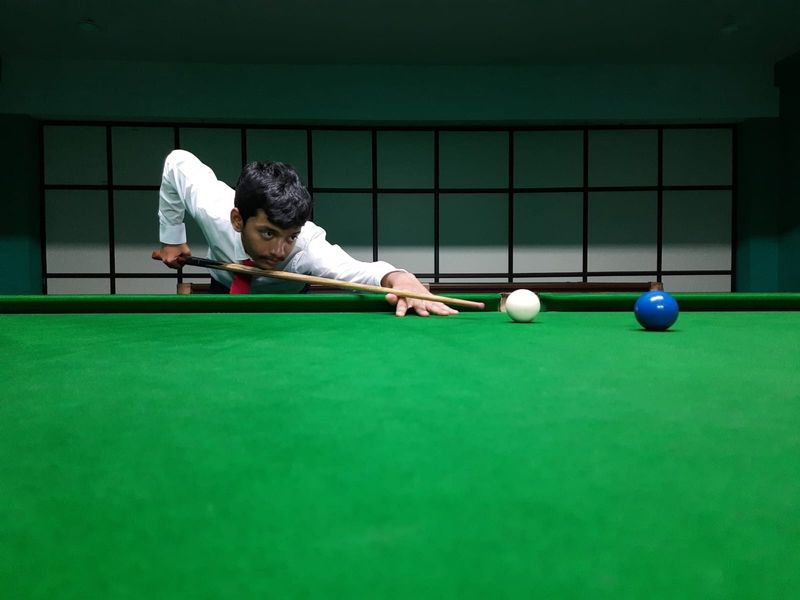
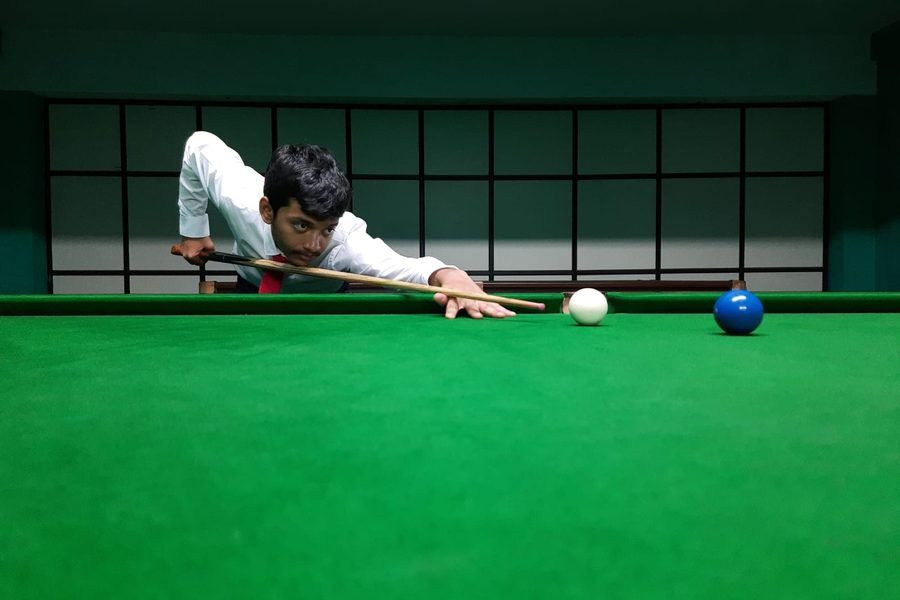
Give the Interests images real estate; chess.com card on the Chess tile
- Two columns instead of four, so each card is roughly twice as wide and the
  photos are actually legible rather than thumbnails.
- All sources pre-cropped to 3:2 at 900px, so a uniform aspect-[3/2] box can use
  object-cover without cutting anything at render time. The climbing shot was
  portrait; its crop is biased upward to keep the cliff face and the climbers.
- Chess uses chess.com's own profile share card — their branding, and the real
  numbers (1605 rapid, top 2%). It is 1.9:1, so rather than crop the Puzzles
  stat off it is letterboxed onto chess.com's own background colour, sampled
  from the card itself. Self-hosted, so the page never depends on their endpoint.
- Cards without a photo use the same 3:2 block, keeping one rhythm.
- About/Builder now says more than 20,000 investors reached.

Changed region(s): [[0.0, 0.15, 1.0, 0.57]]

diff --git a/app/components/Interests.tsx b/app/components/Interests.tsx
@@ -8,6 +8,8 @@ type Interest = {
   description: string
   /** Optional photo. Cards without one keep the emoji at full size. */
   image?: { src: string; w: number; h: number }
+  /** Optional outbound link. The whole card becomes clickable when set. */
+  href?: string
 }
 
 const interests: Interest[] = [
@@ -15,18 +17,20 @@ const interests: Interest[] = [
     icon: '🧗',
     title: 'Rock Climbing',
     description: 'Reading the wall, committing to the move. Problem-solving with consequences.',
-    image: { src: '/img/climbing.jpg', w: 640, h: 853 },
+    image: { src: '/img/climbing.jpg', w: 900, h: 600 },
   },
   {
     icon: '♟',
     title: 'Chess',
     description: 'Thinking several moves ahead and adapting when the board changes.',
+    href: 'https://www.chess.com/member/vedanthkogileru/stats/rapid?time=0',
+    image: { src: '/img/chess.jpg', w: 900, h: 600 },
   },
   {
     icon: '🎱',
     title: 'Snooker',
     description: 'Precision, patience, and playing position for the shot after this one.',
-    image: { src: '/img/snooker.jpg', w: 800, h: 600 },
+    image: { src: '/img/snooker.jpg', w: 900, h: 600 },
   },
   {
     icon: '📈',
@@ -50,7 +54,7 @@ export default function Interests() {
           </p>
         </div>
 
-        <div className="grid grid-cols-2 lg:grid-cols-4 gap-4">
+        <div className="grid sm:grid-cols-2 gap-6">
           {interests.map((interest, i) => (
             <motion.div
               key={interest.title}
@@ -59,7 +63,7 @@ export default function Interests() {
               viewport={{ once: true, margin: '-50px' }}
               transition={{ duration: 0.5, delay: i * 0.1 }}
               whileHover={{ y: -6 }}
-              className="bg-slate-50 rounded-2xl p-6 border border-slate-200 hover:border-indigo-200 hover:shadow-sm transition-colors"
+              className="relative bg-slate-50 rounded-2xl p-6 border border-slate-200 hover:border-indigo-200 hover:shadow-sm transition-colors"
             >
               {interest.image ? (
                 <img
@@ -68,17 +72,40 @@ export default function Interests() {
                   width={interest.image.w}
                   height={interest.image.h}
                   loading="lazy"
-                  className="w-full h-32 object-cover rounded-xl mb-4"
+                  className="w-full aspect-[3/2] object-cover rounded-xl mb-5 bg-white border border-slate-100"
                 />
               ) : (
-                // Same 8rem block as a photo, so a mixed row of photo and
+                // Same 3:2 block as a photo, so a mixed row of photo and
                 // emoji cards keeps one rhythm instead of leaving dead space.
-                <span className="w-full h-32 mb-4 rounded-xl bg-white border border-slate-100 flex items-center justify-center text-4xl">
+                <span className="w-full aspect-[3/2] mb-5 rounded-xl bg-white border border-slate-100 flex items-center justify-center text-6xl">
                   {interest.icon}
                 </span>
               )}
-              <h3 className="font-semibold text-slate-900 mb-2">{interest.title}</h3>
+              <h3 className="font-semibold text-slate-900 text-lg mb-2">{interest.title}</h3>
               <p className="text-slate-500 text-sm leading-relaxed">{interest.description}</p>
+              {interest.href && (
+                <>
+                  <svg
+                    className="absolute top-5 right-5 w-4 h-4 text-slate-300"
+                    fill="none"
+                    stroke="currentColor"
+                    viewBox="0 0 24 24"
+                    aria-hidden="true"
+                  >
+                    <path strokeLinecap="round" strokeLinejoin="round" strokeWidth={2} d="M14 5h5m0 0v5m0-5L10 14M9 5H6a2 2 0 00-2 2v11a2 2 0 002 2h11a2 2 0 002-2v-3" />
+                  </svg>
+                  {/* Stretched link: keeps the card a single hit target without
+                      nesting an anchor around the motion wrapper. */}
+                  <a
+                    href={interest.href}
+                    target="_blank"
+                    rel="noopener noreferrer"
+                    className="absolute inset-0 rounded-2xl focus-visible:outline-2 focus-visible:outline-offset-2 focus-visible:outline-indigo-600"
+                  >
+                    <span className="sr-only">{interest.title} — view profile</span>
+                  </a>
+                </>
+              )}
             </motion.div>
           ))}
         </div>

diff --git a/app/components/About.tsx b/app/components/About.tsx
@@ -84,7 +84,7 @@ const chapters: Chapter[] = [
     number: '03',
     label: 'The Builder',
     headline: 'Then I built the products they would actually invest through.',
-    body: 'At CASHe I went from intern to Founding PM. Twice over. I built a P2P lending platform, then took Karat Wealth (FD) and KaratClub (MF rewards) from first wireframes to production apps. Along the way I built the analytics infrastructure the whole team ran on.',
+    body: 'At CASHe I went from intern to Founding PM. Twice over. I built a P2P lending platform, then took Karat Wealth (FD) and KaratClub (MF rewards) from first wireframes to production apps — reaching more than 20,000 investors along the way. And I built the analytics infrastructure the whole team ran on.',
     stat: { value: '2', label: 'products as Founding PM' },
   },
   {
